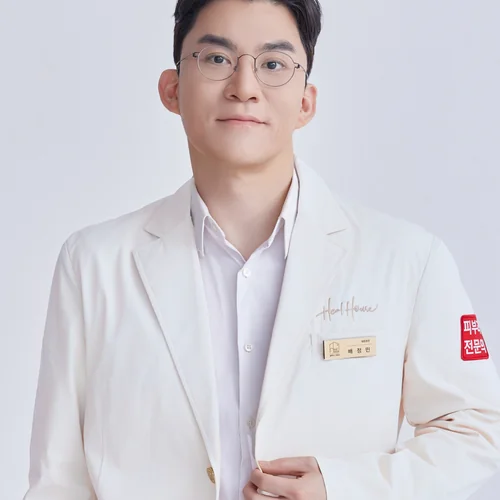
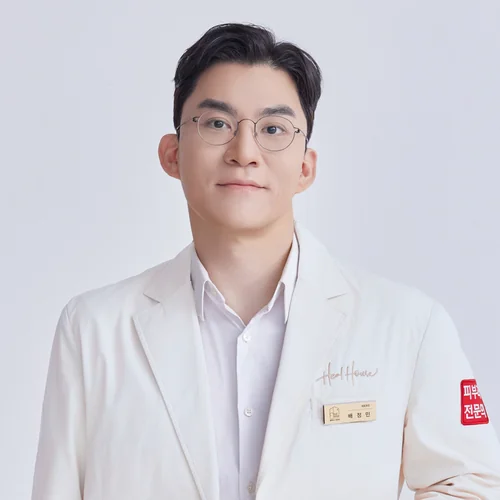
사진 머리 위 여유 + 폭 통일 + 원장→원장님 통일
- 사진 cy 0.30으로 되돌리고 정한미만 0.27 (머리 위 여유 확보)
- --max-width 변수 680→1080 (헤더·푸터·main 모두 동일하게 넓게)
- 본문 결과 카드는 가독성 위해 720px 가운데 정렬
  (#results-header, .video-group, .qa-detail)
- "원장" → "원장님" 통일 (Q&A 카드, 단일 원장 페이지 헤더/heading/title)
- 안내 문구: "직접 답변합니다." → "직접 답합니다."
- 캐시 버스터 v=6

diff --git a/js/app.js b/js/app.js
@@ -213,7 +213,7 @@
           <img class="avatar" src="${doc.photo}" alt="${doc.name} 원장 프로필" loading="lazy" width="44" height="44">
           <div class="doctor-info">
             <div class="doctor-name">
-              ${doctorHtml} 원장
+              ${doctorHtml} 원장님
               <span class="verified" title="피부과 전문의">✓</span>
             </div>
             <div class="doctor-meta">${doc.title} · ${escapeHtml(qa.videoTopic)} · ${fmtDate(qa.uploadDate)}</div>
@@ -843,7 +843,7 @@
     root.innerHTML = `
       <header class="doctors-header">
         <h2>피부과 전문의</h2>
-        <p class="doctors-sub">피부텐텐의 피부과 전문의들이 직접 답변합니다.</p>
+        <p class="doctors-sub">피부텐텐의 피부과 전문의들이 직접 답합니다.</p>
       </header>
       <div class="doctor-grid">
         ${list.map((d, i) => `
@@ -872,8 +872,8 @@
       root.innerHTML = `<div class="empty-state"><h3>원장님을 찾을 수 없어요</h3><p><a href="doctors.html">목록으로 돌아가기</a></p></div>`;
       return;
     }
-    document.title = `${doctor.name} 원장 | 피부텐텐 Q&A`;
-    setMeta('description', `${doctor.name} 원장 — ${doctor.intro || ''}`);
+    document.title = `${doctor.name} 원장님 | 피부텐텐 Q&A`;
+    setMeta('description', `${doctor.name} 원장님 — ${doctor.intro || ''}`);
 
     const qas = ALL_QAS
       .filter(qa => qa.doctor === doctor.name)
@@ -890,11 +890,11 @@
     root.innerHTML = `
       <header class="doctor-hero">
         <img class="doctor-hero-photo" src="${doctor.photo}" alt="${doctor.name} 원장" width="160" height="160">
-        <h1 class="doctor-hero-name">${escapeHtml(doctor.name)} <small>원장</small></h1>
+        <h1 class="doctor-hero-name">${escapeHtml(doctor.name)} <small>원장님</small></h1>
         <div class="doctor-hero-branch">${escapeHtml(affiliation)}</div>
         <p class="doctor-hero-intro">${escapeHtml(doctor.intro || '')}</p>
       </header>
-      <h3 class="doctor-qa-heading">${escapeHtml(doctor.name)} 원장의 Q&A ${qas.length > 0 ? `(${qas.length})` : ''}</h3>
+      <h3 class="doctor-qa-heading">${escapeHtml(doctor.name)} 원장님의 Q&A ${qas.length > 0 ? `(${qas.length})` : ''}</h3>
       <section>${cards}</section>
     `;
     refreshCounts();

diff --git a/css/style.css b/css/style.css
@@ -21,7 +21,7 @@
   --radius: 12px;
   --radius-lg: 16px;
   --radius-pill: 999px;
-  --max-width: 680px;
+  --max-width: 1080px;
   --font: 'Noto Sans KR', -apple-system, BlinkMacSystemFont, 'Segoe UI', system-ui, sans-serif;
   --transition: 0.2s cubic-bezier(0.4, 0, 0.2, 1);
 }
@@ -317,6 +317,14 @@ main {
 .video-group {
   margin-bottom: 32px;
   position: relative;
+  max-width: 720px;       /* 본문 가독성: 카드 폭 제한 (헤더/페이지는 1080) */
+  margin-left: auto;
+  margin-right: auto;
+}
+#results-header, .qa-detail {
+  max-width: 720px;
+  margin-left: auto;
+  margin-right: auto;
 }
 .video-group-header {
   display: flex;
@@ -734,10 +742,6 @@ main {
   color: var(--text-secondary);
   margin: 0;
 }
-/* 원장 페이지는 main 폭을 더 넓게 (akd-members 스타일) */
-.page-doctors main { max-width: 1080px; }
-.page-doctors .site-header .header-inner { max-width: 1080px; }
-
 .doctor-grid {
   display: grid;
   grid-template-columns: repeat(2, 1fr);

diff --git a/saved.html b/saved.html
@@ -10,7 +10,7 @@
   <link rel="preconnect" href="https://fonts.googleapis.com">
   <link rel="preconnect" href="https://fonts.gstatic.com" crossorigin>
   <link href="https://fonts.googleapis.com/css2?family=Noto+Sans+KR:wght@400;500;600;700;800&family=Playfair+Display:wght@700&display=swap" rel="stylesheet">
-  <link rel="stylesheet" href="css/style.css?v=5">
+  <link rel="stylesheet" href="css/style.css?v=6">
   <link rel="icon" type="image/svg+xml" href="images/logo.svg">
   <link rel="apple-touch-icon" href="images/logo.svg">
 </head>
@@ -59,8 +59,8 @@
 
   <div class="toast" id="toast"></div>
 
-  <script src="js/data.js?v=5"></script>
-  <script src="js/search.js?v=5"></script>
-  <script src="js/app.js?v=5"></script>
+  <script src="js/data.js?v=6"></script>
+  <script src="js/search.js?v=6"></script>
+  <script src="js/app.js?v=6"></script>
 </body>
 </html>

diff --git a/doctors.html b/doctors.html
@@ -9,7 +9,7 @@
   <link rel="preconnect" href="https://fonts.googleapis.com">
   <link rel="preconnect" href="https://fonts.gstatic.com" crossorigin>
   <link href="https://fonts.googleapis.com/css2?family=Noto+Sans+KR:wght@400;500;600;700;800&display=swap" rel="stylesheet">
-  <link rel="stylesheet" href="css/style.css?v=5">
+  <link rel="stylesheet" href="css/style.css?v=6">
   <link rel="icon" type="image/svg+xml" href="images/logo.svg">
   <link rel="apple-touch-icon" href="images/logo.svg">
 </head>
@@ -57,8 +57,8 @@
 
   <div class="toast" id="toast"></div>
 
-  <script src="js/data.js?v=5"></script>
-  <script src="js/search.js?v=5"></script>
-  <script src="js/app.js?v=5"></script>
+  <script src="js/data.js?v=6"></script>
+  <script src="js/search.js?v=6"></script>
+  <script src="js/app.js?v=6"></script>
 </body>
 </html>

diff --git a/index.html b/index.html
@@ -27,7 +27,7 @@
   <link rel="preconnect" href="https://fonts.gstatic.com" crossorigin>
   <link href="https://fonts.googleapis.com/css2?family=Noto+Sans+KR:wght@400;500;600;700;800&display=swap" rel="stylesheet">
 
-  <link rel="stylesheet" href="css/style.css?v=5">
+  <link rel="stylesheet" href="css/style.css?v=6">
   <link rel="icon" type="image/svg+xml" href="images/logo.svg">
   <link rel="apple-touch-icon" href="images/logo.svg">
 
@@ -142,8 +142,8 @@
 
   <div class="toast" id="toast"></div>
 
-  <script src="js/data.js?v=5"></script>
-  <script src="js/search.js?v=5"></script>
-  <script src="js/app.js?v=5"></script>
+  <script src="js/data.js?v=6"></script>
+  <script src="js/search.js?v=6"></script>
+  <script src="js/app.js?v=6"></script>
 </body>
 </html>
